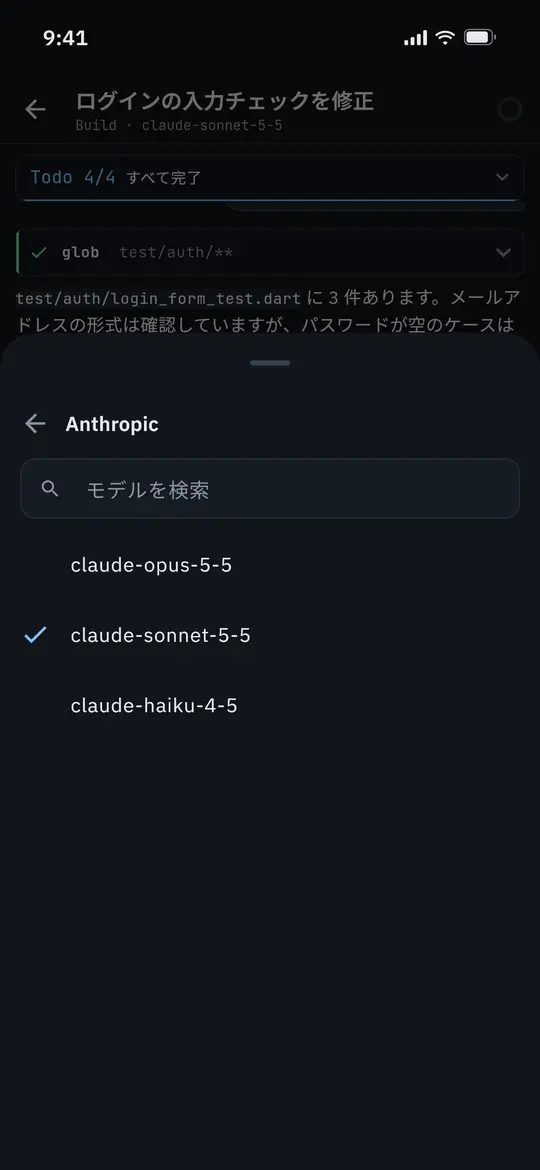
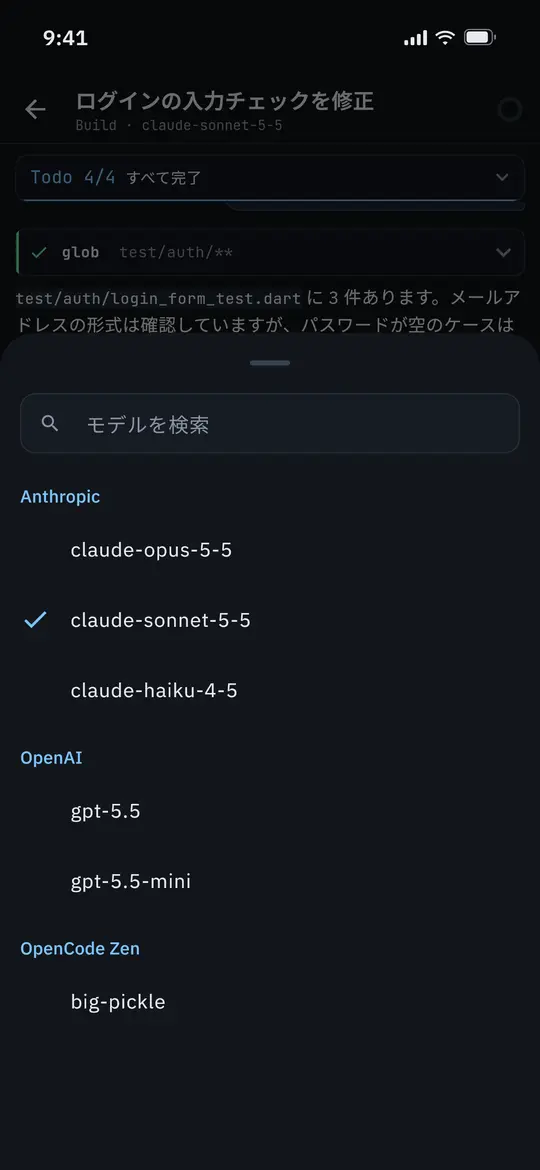
サイト: LP に巻き戻し・会話モード・新しいモデル一覧・接続の診断を載せる
- 特長に「メッセージから巻き戻す」「声で頼んで、返答を聞く」を画像付きで追加
- モデル切り替えの説明と画像（スマホ・タブレット）を 1 階層の一覧に合わせて更新
- はじめ方と FAQ からつなぎ方ガイドにリンクし、FAQ に「つながらないときは？」（接続の診断）を追加
- スクリーンショット生成に巻き戻しと会話モードの撮影を追加し、新しいモデル一覧に合わせた

Claude-Session: https://claude.ai/code/session_017MTLm2GXzgfxiC2cnwmZT6

diff --git a/branding/store-listing/tool/store_screenshots_test.dart b/branding/store-listing/tool/store_screenshots_test.dart
@@ -28,6 +28,7 @@ import 'package:opencode_mobile/core/storage/server_store.dart';
 import 'package:opencode_mobile/features/connection/connection_providers.dart';
 import 'package:opencode_mobile/features/git/git_screen.dart';
 import 'package:opencode_mobile/features/live/live_providers.dart';
+import 'package:opencode_mobile/features/voice/speech.dart';
 import 'package:opencode_mobile/l10n/app_localizations.dart';
 import 'package:opencode_mobile/main.dart';
 
@@ -150,7 +151,9 @@ class Copy {
     required this.permDescription,
     required this.preAsk,
     required this.preReply,
+    required this.heard,
   });
+  final String heard;
   final String preAsk;
   final String preReply;
   final String server;
@@ -181,6 +184,7 @@ const ja = Copy(
   permIntro: 'パッケージを更新してからテストを実行します。',
   permDescription: '依存パッケージを更新',
   preAsk: 'ログイン画面のテストってある？',
+  heard: 'ログイン画面のテストを全部実行して',
   preReply: '`test/auth/login_form_test.dart` に 3 件あります。メールアドレスの形式は確認していますが、パスワードが空のケースはまだありません。',
 );
 
@@ -202,6 +206,7 @@ const en = Copy(
   permIntro: 'I will update the packages and then run the tests.',
   permDescription: 'Update dependencies',
   preAsk: 'Do we have tests for the login screen?',
+  heard: 'Run all the login screen tests',
   preReply: 'There are 3 in `test/auth/login_form_test.dart`. They check the email format, but nothing covers an empty password yet.',
 );
 
@@ -403,6 +408,9 @@ FakeAdapter adapterFor(Copy c, String lang) => FakeAdapter({
     ],
   }),
   '/api/session/s0/form': FakeRoute.json({'data': []}),
+  '/api/session/s0/revert/stage': FakeRoute.json({
+    'data': {'messageID': 'u1'},
+  }),
   '/api/session/s1/form': FakeRoute.json({'data': []}),
   '/api/agent': FakeRoute.json({
     'data': [
@@ -438,9 +446,39 @@ FakeAdapter adapterFor(Copy c, String lang) => FakeAdapter({
 });
 
 class Harness {
-  Harness(this.adapter, this.discovered);
+  Harness(this.adapter, this.discovered, {this.heard = ''});
   final FakeAdapter adapter;
   final List<DiscoveredServer> discovered;
+  final String heard;
+}
+
+/// Shows [heard] as the words being heard and keeps listening.
+class _ListeningSpeech implements SpeechInput {
+  _ListeningSpeech(this.heard);
+  final String heard;
+
+  @override
+  Future<bool> available() async => true;
+
+  @override
+  Future<String?> listen({
+    required String localeTag,
+    void Function(String words)? onPartial,
+  }) {
+    onPartial?.call(heard);
+    return Completer<String?>().future;
+  }
+
+  @override
+  Future<void> stop() async {}
+}
+
+class _SilentSpeech implements SpeechOutput {
+  @override
+  Future<void> speak(String text, {required String localeTag}) async {}
+
+  @override
+  Future<void> stop() async {}
 }
 
 Future<void> pumpApp(
@@ -461,6 +499,8 @@ Future<void> pumpApp(
           ),
           lanScanProvider.overrideWithValue(FakeDiscovery(finished: const [])),
           serverStoreProvider.overrideWithValue(ServerStore()),
+          speechInputProvider.overrideWithValue(_ListeningSpeech(h.heard)),
+          speechOutputProvider.overrideWithValue(_SilentSpeech()),
           eventStreamProvider.overrideWith((ref) {
             if (ref.watch(connectionProvider) == null) return null;
             final stream = EventStream(open: (_) async => events.stream)
@@ -547,8 +587,34 @@ void main() {
         // Model picker.
         await tester.tap(find.text('claude-sonnet-5-5').last);
         await settle(tester);
-        await tapText(tester, 'Anthropic');
         await shoot(tester, '$p-model');
+        await finish(tester);
+      });
+
+      testWidgets('$p rewind', (tester) async {
+        setDevice(tester, d, lang);
+        final h = Harness(adapterFor(c, lang), const []);
+        await pumpApp(tester, h, serverName: c.server);
+        await tapText(tester, 'todo-app');
+        await tapText(tester, c.sessions[0]);
+        await tester.longPress(find.text(c.ask).first);
+        await settle(tester);
+        await shoot(tester, '$p-rewind-menu');
+        await tester.tap(find.byKey(const Key('rewind-here')));
+        await settle(tester);
+        await shoot(tester, '$p-rewind');
+        await finish(tester);
+      });
+
+      testWidgets('$p voice', (tester) async {
+        setDevice(tester, d, lang);
+        final h = Harness(adapterFor(c, lang), const [], heard: c.heard);
+        await pumpApp(tester, h, serverName: c.server);
+        await tapText(tester, 'todo-app');
+        await tapText(tester, c.sessions[0]);
+        await tester.tap(find.byKey(const Key('conversation')));
+        await settle(tester);
+        await shoot(tester, '$p-voice');
         await finish(tester);
       });
 

diff --git a/site/ja/index.html b/site/ja/index.html
@@ -75,10 +75,24 @@
   </div>
 </div>
 <div class="feature">
+  <img src="/img/ja/7-rewind.webp" alt="スクリーンショット: メッセージから巻き戻す" width="540" height="1170" loading="lazy">
+  <div>
+    <h3>メッセージから巻き戻す</h3>
+    <p>送ったメッセージを長押しして「ここまで戻す」を選ぶと、そこから先の会話とファイルの変更を取り消せます。メッセージの文面は入力欄に戻るので、言い直してそのまま送れます。間違えたら「元に戻す」で元どおりです。</p>
+  </div>
+</div>
+<div class="feature">
+  <img src="/img/ja/8-voice.webp" alt="スクリーンショット: 声で頼んで、返答を聞く" width="540" height="1170" loading="lazy">
+  <div>
+    <h3>声で頼んで、返答を聞く</h3>
+    <p>会話モードでは、話しかけた内容を送り、作業が終わると返答を読み上げます。返答を長押しすれば、いつでも読み上げを聞けます。音声の聞き取りと読み上げには端末の機能を使います。</p>
+  </div>
+</div>
+<div class="feature">
   <img src="/img/ja/5-model.webp" alt="スクリーンショット: モデルもエージェントもすぐ切り替え" width="540" height="1170" loading="lazy">
   <div>
     <h3>モデルもエージェントもすぐ切り替え</h3>
-    <p>モデルやエージェントをその場で切り替えられます。画像の添付や、実行中の応答の中断もできます。</p>
+    <p>モデルはプロバイダごとの一覧から、名前で絞り込んですぐに選べます。エージェントの切り替え、画像の添付、実行中の応答の中断もできます。</p>
   </div>
 </div>
 </section>
@@ -98,7 +112,7 @@ opencode serve --hostname 0.0.0.0 --port 4096</code></pre>
   <li>
     <span class="step-num">2</span>
     <h3>つなぎ方を決める</h3>
-    <p>家や職場では、スマートフォンを PC と同じ Wi-Fi につなぐだけです。外出先から使うときは、Tailscale などの VPN を通し、サーバーをインターネットに直接公開しないことをおすすめします。</p>
+    <p>家や職場では、スマートフォンを PC と同じ Wi-Fi につなぐだけです。外出先から使うときは、Tailscale などの VPN を通し、サーバーをインターネットに直接公開しないことをおすすめします。くわしい手順は<a href="/ja/connect/">つなぎ方</a>にまとめています。</p>
   </li>
   <li>
     <span class="step-num">3</span>
@@ -153,7 +167,11 @@ opencode serve --hostname 0.0.0.0 --port 4096</code></pre>
   </details>
   <details>
     <summary>外出先からつなげますか？</summary>
-    <p>つなげます。Tailscale などの VPN を使い、PC とスマートフォンを同じネットワークに入れる方法をおすすめします。サーバーをインターネットにそのまま公開するのは避けてください。</p>
+    <p>つなげます。Tailscale などの VPN を使い、PC とスマートフォンを同じネットワークに入れる方法をおすすめします。サーバーをインターネットにそのまま公開するのは避けてください。Tailscale、Cloudflare Tunnel、SSH 転送の手順は<a href="/ja/connect/">つなぎ方</a>にまとめています。</p>
+  </details>
+  <details>
+    <summary>つながらないときは？</summary>
+    <p>アプリのメニューにある「接続の診断」で、サーバーのバージョンと応答時間、イベントの受信、通知プラグインの状態をまとめて確かめられます。結果はテキストでコピーできるので、お問い合わせのときに添えてください。</p>
   </details>
   <details>
     <summary>会話やコードはどこに送られますか？</summary>

diff --git a/site/en/index.html b/site/en/index.html
@@ -75,10 +75,24 @@
   </div>
 </div>
 <div class="feature">
+  <img src="/img/en/7-rewind.webp" alt="Screenshot: Rewind from any message" width="540" height="1170" loading="lazy">
+  <div>
+    <h3>Rewind from any message</h3>
+    <p>Long-press a message you sent and choose Rewind to here to undo the conversation and the file changes after it. Its text goes back into the input, so you can reword it and send again. Undo puts everything back.</p>
+  </div>
+</div>
+<div class="feature">
+  <img src="/img/en/8-voice.webp" alt="Screenshot: Talk to it, hear the reply" width="540" height="1170" loading="lazy">
+  <div>
+    <h3>Talk to it, hear the reply</h3>
+    <p>In conversation mode, what you say is sent, and the reply is read aloud when the work is done. Long-press any reply to hear it. Listening and reading aloud use your phone's own speech features.</p>
+  </div>
+</div>
+<div class="feature">
   <img src="/img/en/5-model.webp" alt="Screenshot: Switch models and agents in a tap" width="540" height="1170" loading="lazy">
   <div>
     <h3>Switch models and agents in a tap</h3>
-    <p>Change the model or agent on the spot, attach images, or stop a running reply.</p>
+    <p>Pick a model from one list grouped by provider and filter it by name. You can also switch agents, attach images, or stop a running reply.</p>
   </div>
 </div>
 </section>
@@ -98,7 +112,7 @@ opencode serve --hostname 0.0.0.0 --port 4096</code></pre>
   <li>
     <span class="step-num">2</span>
     <h3>Choose how to reach it</h3>
-    <p>At home or at work, put your phone on the same Wi-Fi as your computer. From outside, we recommend a VPN such as Tailscale rather than exposing the server to the internet.</p>
+    <p>At home or at work, put your phone on the same Wi-Fi as your computer. From outside, we recommend a VPN such as Tailscale rather than exposing the server to the internet. The <a href="/en/connect/">connection guide</a> walks through each option.</p>
   </li>
   <li>
     <span class="step-num">3</span>
@@ -153,7 +167,11 @@ opencode serve --hostname 0.0.0.0 --port 4096</code></pre>
   </details>
   <details>
     <summary>Can I connect from outside my home?</summary>
-    <p>Yes. We recommend a VPN such as Tailscale that puts your computer and phone on the same network. Please don't expose the server directly to the internet.</p>
+    <p>Yes. We recommend a VPN such as Tailscale that puts your computer and phone on the same network. Please don't expose the server directly to the internet. The <a href="/en/connect/">connection guide</a> covers Tailscale, Cloudflare Tunnel and SSH forwarding.</p>
+  </details>
+  <details>
+    <summary>What if it won't connect?</summary>
+    <p>Open Connection check from the app menu. It shows the server version and response time, whether events are coming in, and the state of the notification plugin. You can copy the results as text, which helps when you contact support.</p>
   </details>
   <details>
     <summary>Where do my chats and code go?</summary>
